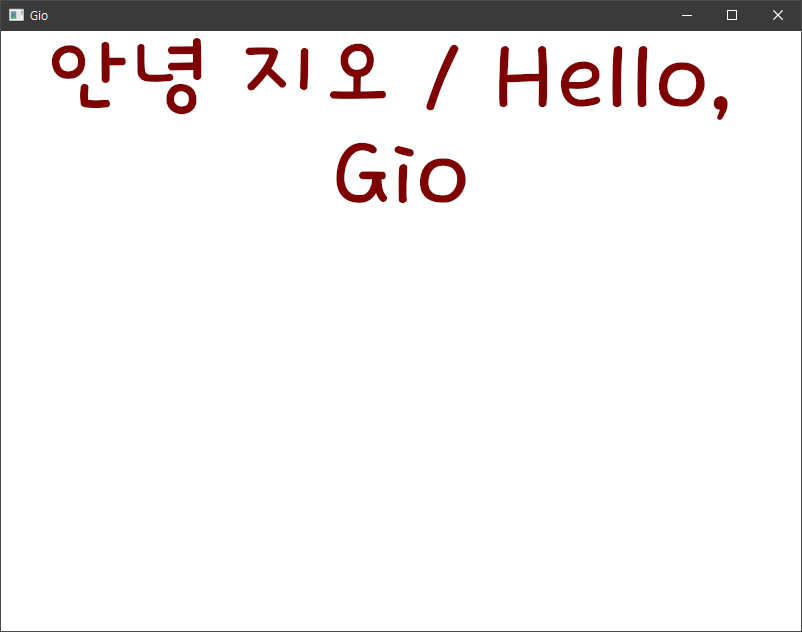
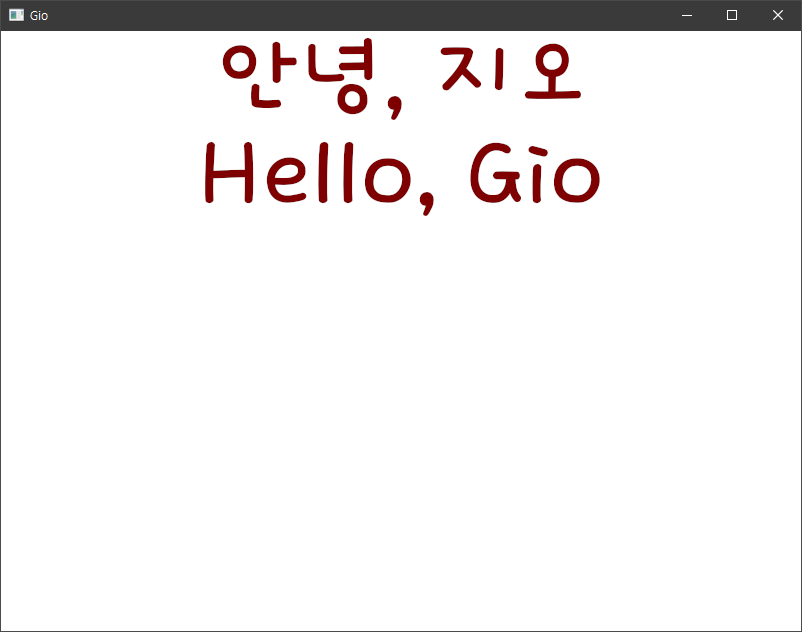
screenshot

Changed region(s): [[0.2494, 0.2104, 0.7481, 0.3307], [0.0623, 0.0601, 0.4988, 0.1804], [0.5299, 0.0601, 0.904, 0.1804]]

diff --git a/main.go b/main.go
@@ -36,7 +36,7 @@ func loop(w *app.Window) error {
 			return e.Err
 		case system.FrameEvent:
 			gtx := layout.NewContext(&ops, e)
-			l := material.H1(th, "안녕 지오 / Hello, Gio")
+			l := material.H1(th, "안녕, 지오\nHello, Gio")
 			maroon := color.NRGBA{127, 0, 0, 255}
 			l.Color = maroon
 			l.Alignment = text.Middle
